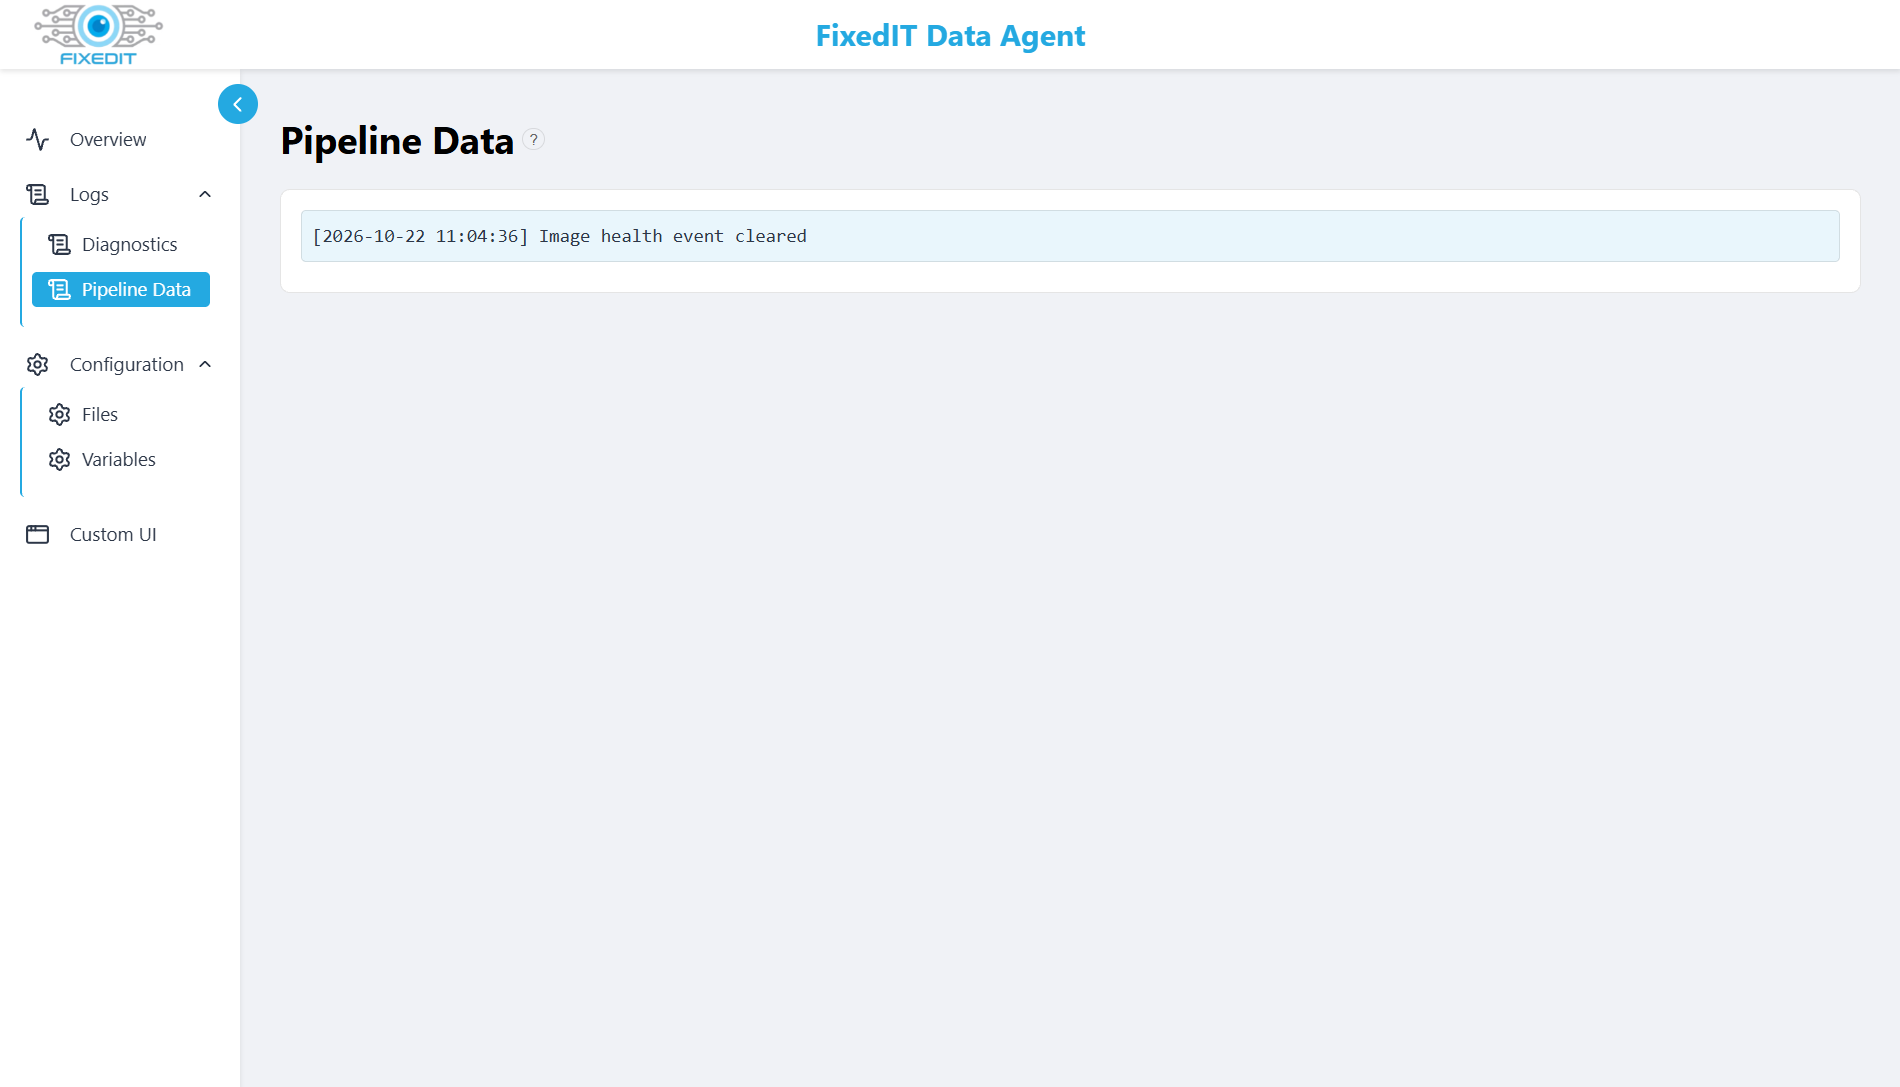
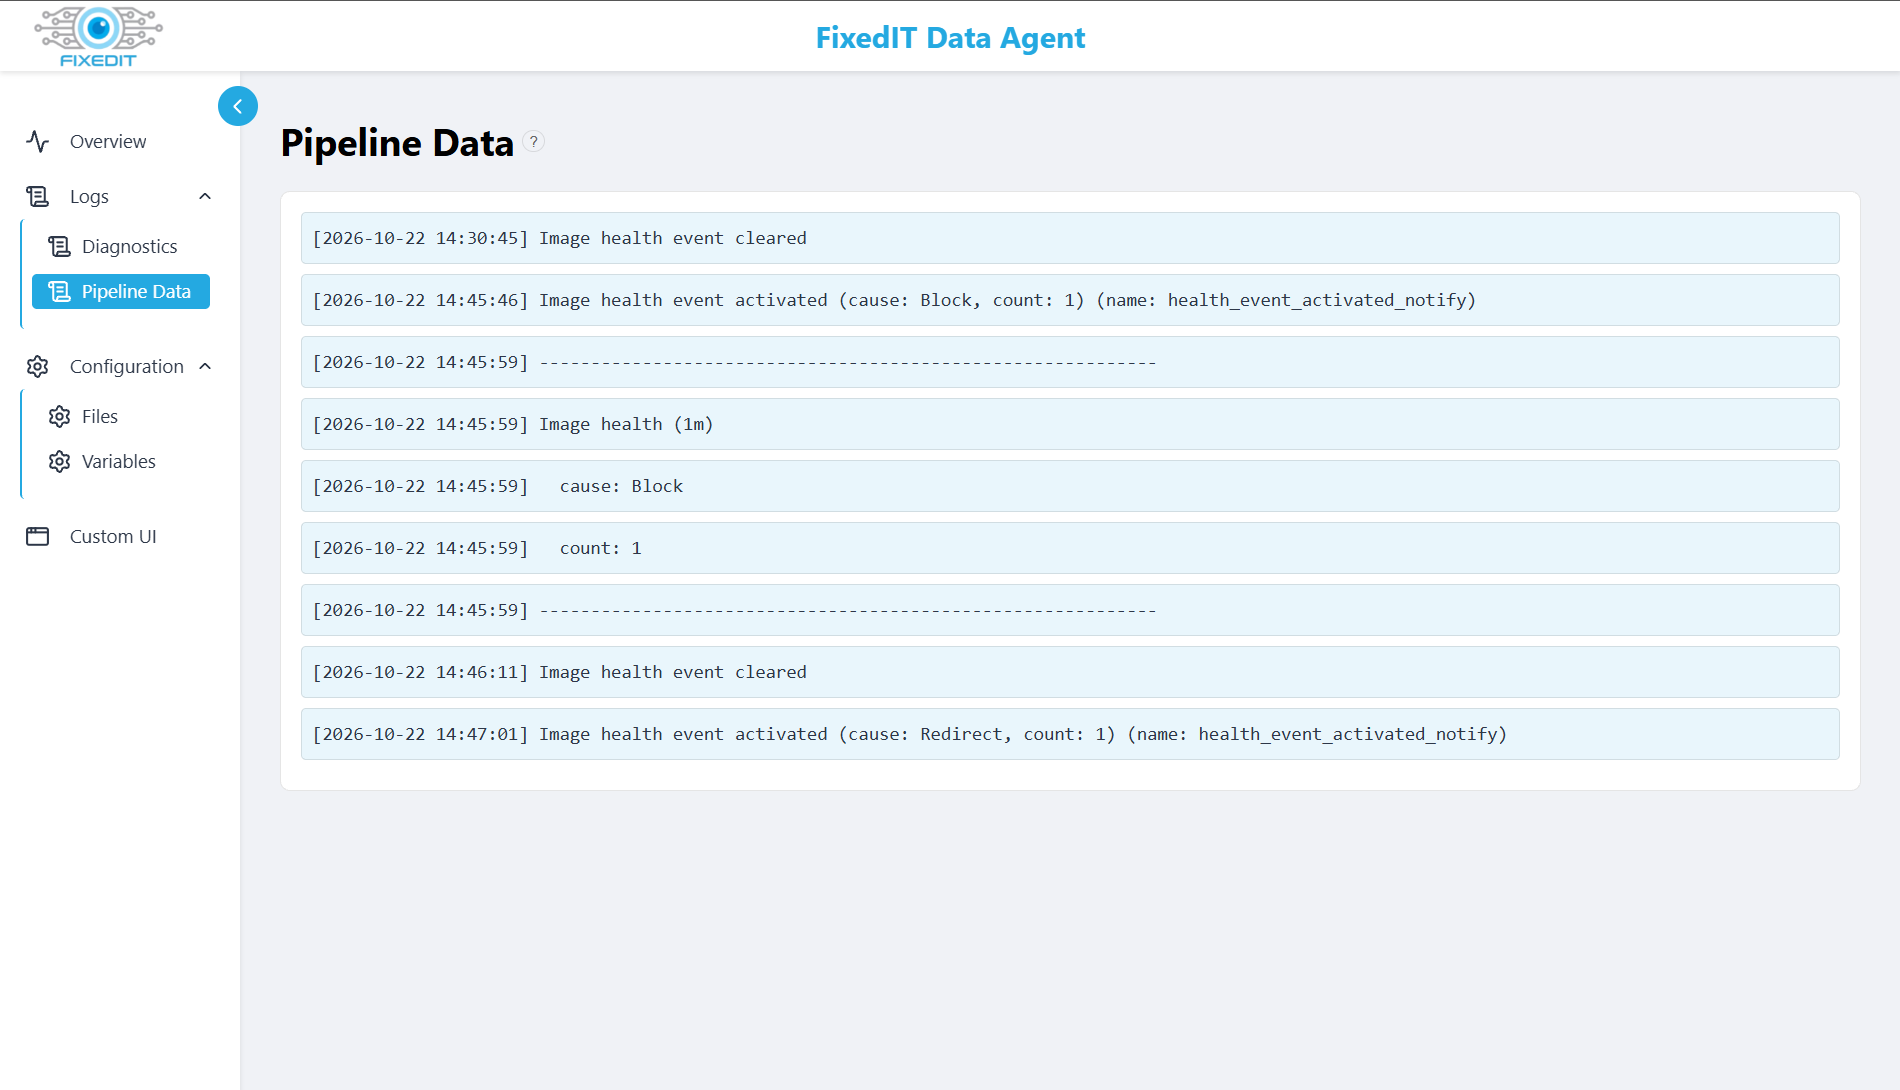
more pics for image health

diff --git a/project-image-health-event-notifications/README.md b/project-image-health-event-notifications/README.md
@@ -163,7 +163,7 @@ flowchart TD
 
    On the Configuration tab, open Variables → "Extra Telegraf variables" and add:
 
-   | Variable | Required | Default | Description |
+   | Variable Name | Required | Default | Description |
    |---|---|---|---|
    | `NTFY_TOPIC_URL` | Yes | – | Full topic URL, e.g. `https://ntfy.sh/axis-image-health-7f3k9q2x`. Already set in the simple example above. |
    | `NOTIFY_MAX_BEFORE_PAUSE` | No | 5 | Number of activation notifications per cause before further ones are muted. A single "paused" notification is sent when this number is exceeded. |
@@ -176,25 +176,9 @@ flowchart TD
 
 5. **Trigger a test alarm**, for example by covering the lens, and check that a notification arrives on your phone and that the event shows up in the Logs tab.
 
-The notifications look like this:
-
-| Notification | Priority | Sent when |
-|---|---|---|
-| Alarm activated | high | An alarm activates and the count is at most `NOTIFY_MAX_BEFORE_PAUSE` |
-| No longer alarming | default | An alarm clears (not sent for the initial state) and the count is at most `NOTIFY_MAX_BEFORE_PAUSE` |
-| Notifications paused | max | The activation count reaches `NOTIFY_MAX_BEFORE_PAUSE` + 1, sent once |
-| Digest | default | Once per `STATS_PERIOD`, only if there was at least one alarm |
-
----
-
 <strong> The notifications look like this: </strong>
 
-| Notification | Priority | Sent when |
-|---|---|---|
-| Alarm activated | high | An alarm activates and the count is at most `NOTIFY_MAX_BEFORE_PAUSE` |
-| No longer alarming | default | An alarm clears (not sent for the initial state) and the count is at most `NOTIFY_MAX_BEFORE_PAUSE` |
-| Notifications paused | max | The activation count reaches `NOTIFY_MAX_BEFORE_PAUSE` + 1, sent once |
-| Digest | default | Once per `STATS_PERIOD`, only if there was at least one alarm |
+![ntfy-Notifications](.images/ntfy-notifications.png)
 
 ## Files
 
